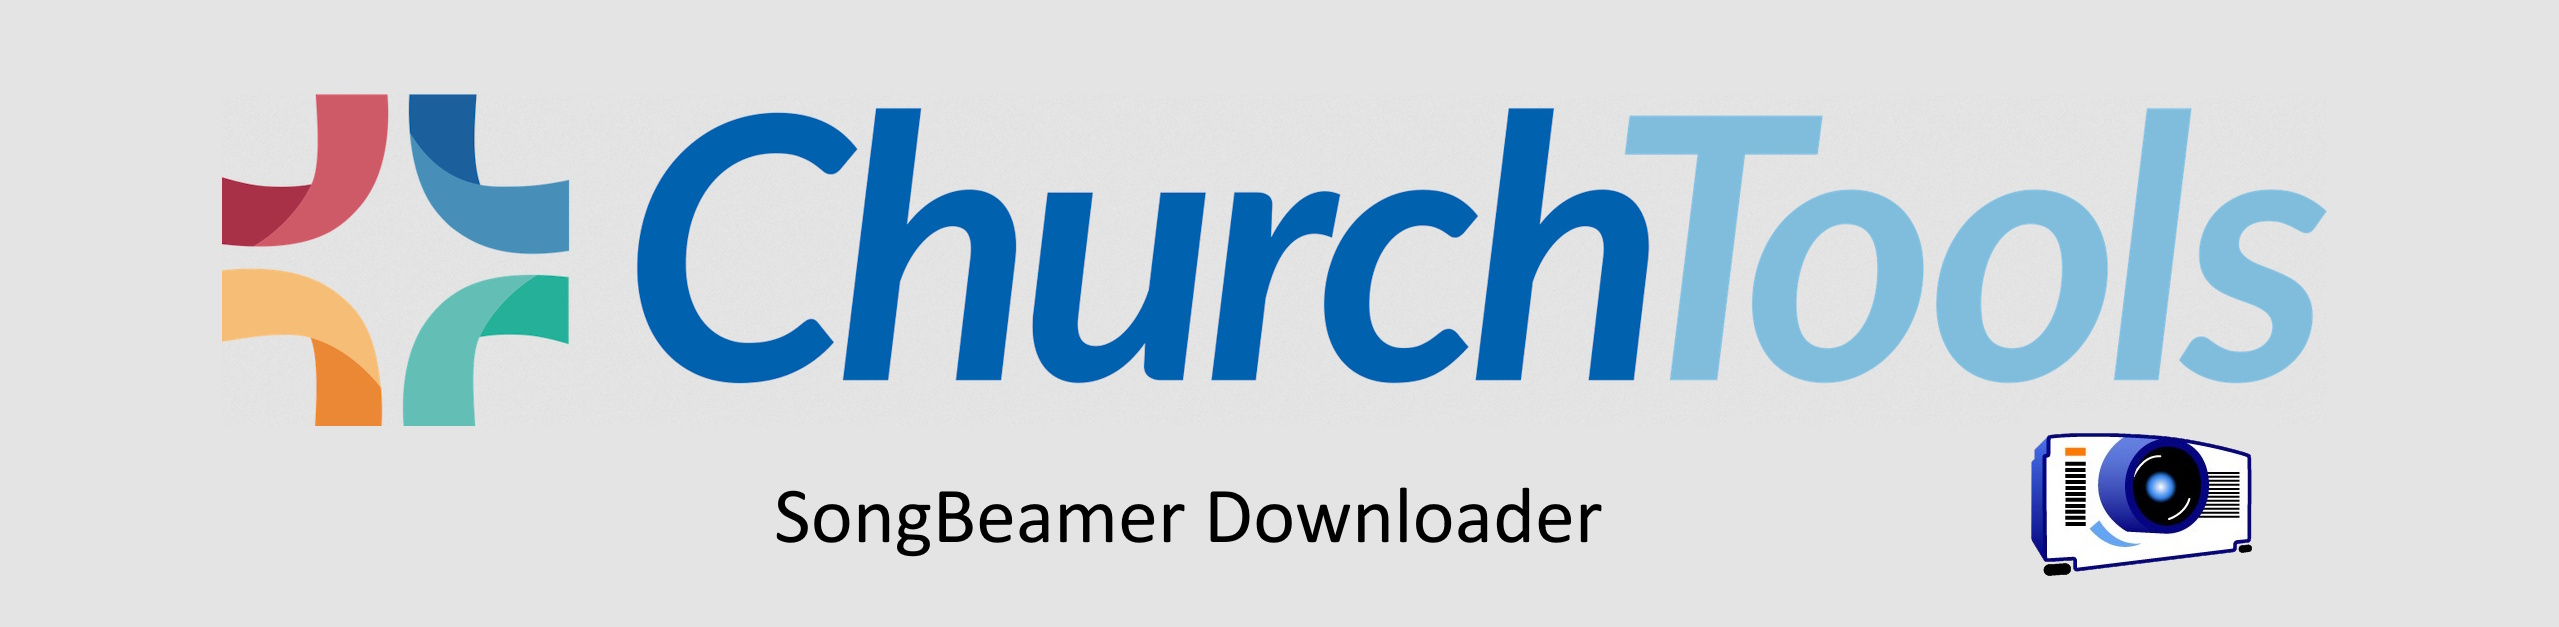
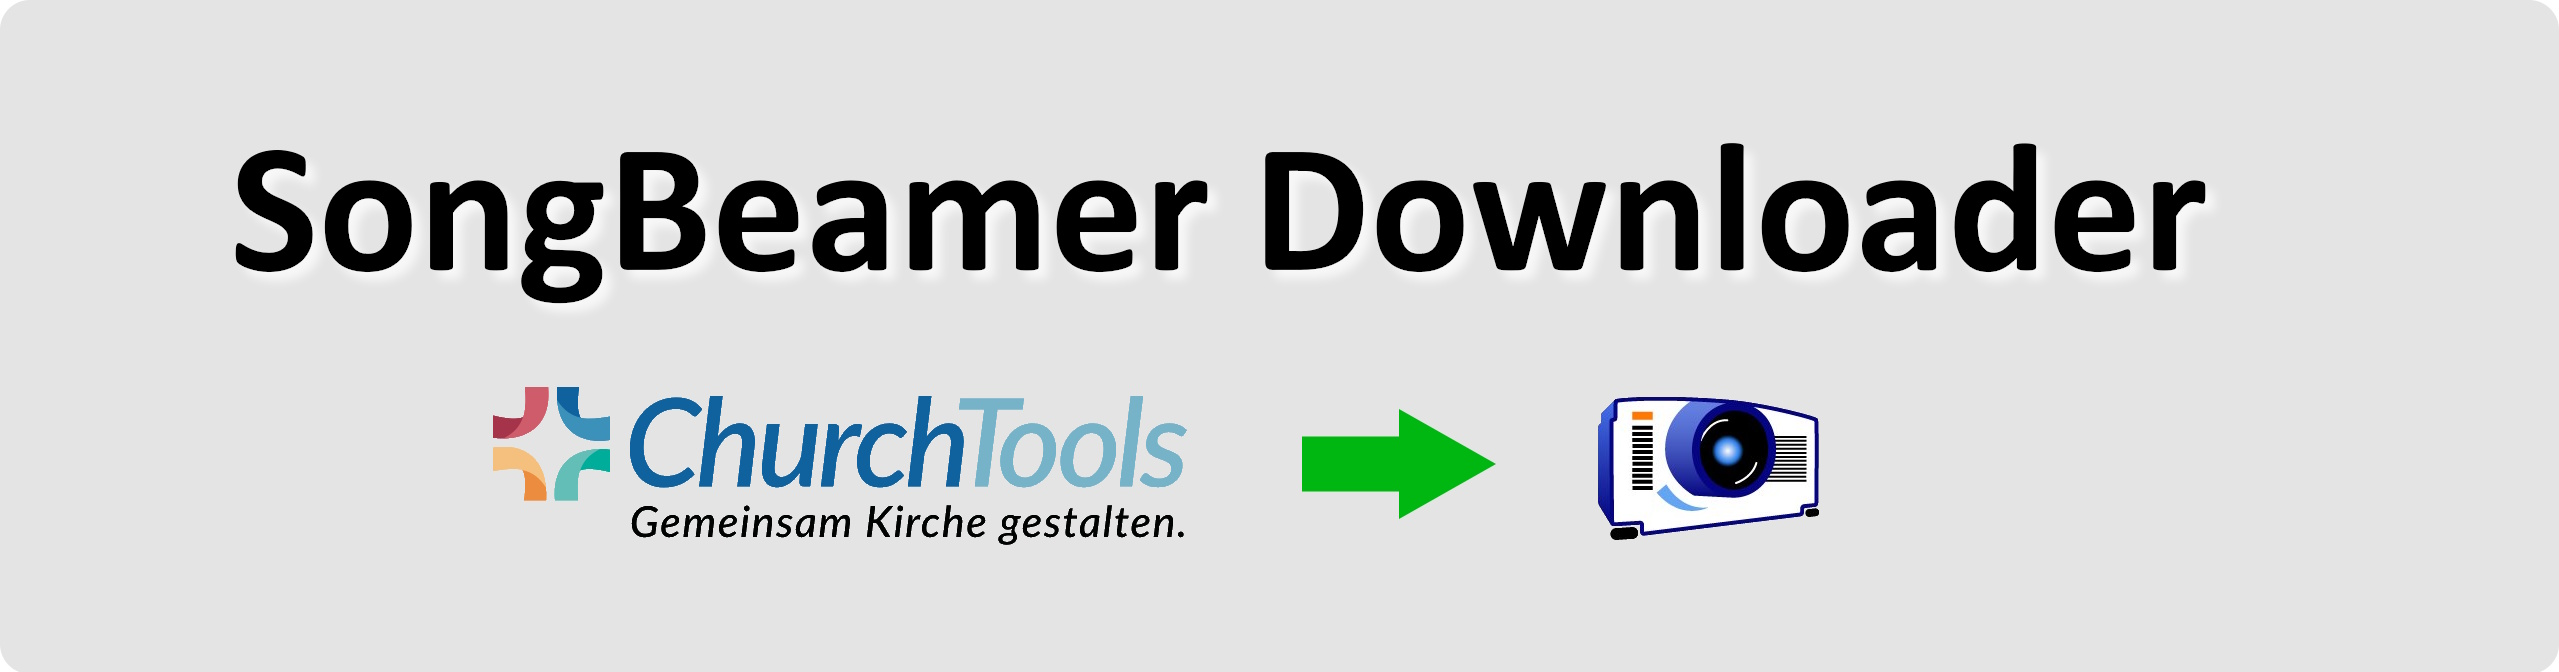
update to 1.1

diff --git a/source/templates/home.html b/source/templates/home.html
@@ -12,10 +12,8 @@
       <div class="row">
         <form action="/" method="post" id="main_form">
           <div>
-            <h3 class="text-center mt-2 mb-4">Instanz</h3>
-            <select class="form-select" aria-label="Instanz" name="instance">
-              <option selected>{{ env_data['instance'] if env_data is defined else "emk-rheinmain.church.tools" }}</option>
-            </select>
+            <h3 class="text-center mt-2 mb-4">URL Instanz</h3>
+            <input class="form-control" aria-label="Instanz" name="instance" value="{{ env_data['instance'] if env_data is defined }}">
           </div>
           <br>
           <div>
@@ -127,7 +125,7 @@
           <br>
           <div>
             <div class="text-secondary text-start position-relative"><strong>Manuell</strong>: ZIP Archiv bitte nach "c:\temp\sb" entpacken und den "Schedule.col" Ablauf in Songbeamer öffnen.</div>
-            <div class="text-secondary text-start position-relative"><strong>Automatisch</strong>: Das Batch Skript "local_commands.bat" ausführen.</div>
+            <div class="text-secondary text-start position-relative"><strong>Automatisch</strong>: Das Batch Skript "local_commands.bat" ausführen (im unten verlinkten GitHub Repository zu finden).</div>
           </div>
           {% endif %}
           {% endif %}

diff --git a/source/templates/style.html b/source/templates/style.html
@@ -1,7 +1,7 @@
 <style>
 .input-wrapper {position: relative;}
-  .icon {position: absolute; top: 50%; transform: translateY(-50%); right: -25px; cursor: pointer;}
-  .closed:before {content: "\F340"; font-family: "Bootstrap-icons"; font-style: normal; font-size: 1.2rem;}
-  .open:before {content: "\F341"; font-family: "Bootstrap-icons"; font-style: normal; font-size: 1.2rem;}
-  .bi-check-circle-fill {font-size: 6rem; color: #A9BB57;}
+.icon {position: absolute; top: 50%; transform: translateY(-50%); right: -25px; cursor: pointer;}
+.closed:before {content: "\F340"; font-family: "Bootstrap-icons"; font-style: normal; font-size: 1.2rem;}
+.open:before {content: "\F341"; font-family: "Bootstrap-icons"; font-style: normal; font-size: 1.2rem;}
+.bi-check-circle-fill {font-size: 6rem; color: #A9BB57;}
 </style>

diff --git a/source/templates/footer.html b/source/templates/footer.html
@@ -1,5 +1,7 @@
 <div class="container">
   <footer class="py-3 my-4">
-    <p class="text-center text-body-secondary">&copy; 2026 zetrick</p>
+    <hr>
+    <p class="text-center text-body-secondary">Dies ist ein Community Projekt und kein offizielles Tool von ChurchTools oder SongBeamer</p>
+    <p class="text-center text-body-secondary"><a class="text-body-secondary text-decoration-none" href="https://github.com/zetric/churchtools_sb_downloader"><i class="fa fa-brands fa-github"></i> Edit on GitHub</a></p>
   </footer>
 </div>

diff --git a/source/templates/bootstrap.html b/source/templates/bootstrap.html
@@ -8,3 +8,4 @@
 <!-- Tempus Dominus Styles -->
 <link rel="stylesheet" href="https://cdn.jsdelivr.net/npm/@eonasdan/tempus-dominus@6.9.4/dist/css/tempus-dominus.min.css" crossorigin="anonymous">
 <link rel="stylesheet" href="https://cdn.jsdelivr.net/npm/bootstrap-icons@1.11.1/font/bootstrap-icons.css">
+<link rel="stylesheet" href="https://cdnjs.cloudflare.com/ajax/libs/font-awesome/7.3.1/css/all.min.css">

diff --git a/source/app.py b/source/app.py
@@ -51,7 +51,7 @@ def main():
       # Get calendar names to use them later to query the events associated with the right calendar
       if (calendars_json := ct.ct_get_calendars())[1] == False:
         logger.error("Error during loading calendars: " + str(calendars_json[0]))
-        return render_template('home.html', error=f"Fehler beim Laden der Kalender: {calendars_json[0]}")
+        return render_template('home.html', env_data=env_data, error=f"Fehler beim Laden der Kalender: {calendars_json[0]}")
       
       for calendar in calendars_json[1]:
         calendar_names.append(calendar['name'])
@@ -78,7 +78,7 @@ def main():
         # Get events of selected calendar
         if (events := ct.ct_get_events(date_start=date_start, date_end=date_end))[1] == False:
           logger.error("Error during loading events: " + str(events[0]))
-          return render_template('home.html', error=f"Fehler beim Laden der Events: {events[0]}")
+          return render_template('home.html', env_data=env_data, error=f"Fehler beim Laden der Events: {events[0]}")
 
 
         for event in events[1]:
@@ -91,7 +91,7 @@ def main():
           # Get single event object
           if (event_selected_object := ct.ct_get_event(event_id=env_data['event_selected']))[1] == False:
             logger.error("Error during loading the event: " + str(event_selected_object[0]))
-            return render_template('home.html', error=f"Fehler beim Laden des Events: {event_selected_object[0]}")
+            return render_template('home.html', env_data=env_data, error=f"Fehler beim Laden des Events: {event_selected_object[0]}")
 
           event_selected = event_selected_object[1]
 
@@ -99,7 +99,7 @@ def main():
           logger.info(f"Querying agenda")
           if (agenda := ct.ct_get_agenda(event_id=env_data['event_selected']))[1] == False:
             logger.error("Error during loading the event: " + str(agenda[0]))
-            return render_template('home.html', error=f"Fehler beim Laden des Events: {agenda[0]}")
+            return render_template('home.html', env_data=env_data, error=f"Fehler beim Laden des Events: {agenda[0]}")
 
           if agenda != None:
 
@@ -154,7 +154,7 @@ def main():
                     
                     if (file_element := ct.ct_get_song_file_element(arrangement_id=item['song']['arrangementId']))[1] == False:
                       logger.error("Error during loading the file element: " + str(file_element[0]))
-                      return render_template('home.html', error=f"Fehler beim Laden des Dateielementes: {file_element[0]}")
+                      return render_template('home.html', env_data=env_data, error=f"Fehler beim Laden des Dateielementes: {file_element[0]}")
                     
                     fileUrl = file_element[1][0]['fileUrl']
                     ct.ct_download_file(fileName=file_element[1][0]['name'], fileUrl=fileUrl, target_path=TMP_FOLDER)
@@ -198,11 +198,11 @@ def main():
 
     else:
 
-      return render_template('home.html', error="Keine Instanz oder Token angegeben")
+      return render_template('home.html', env_data=env_data, error="Keine Instanz oder Token angegeben")
 
   else:
 
-    return render_template('home.html', error="Keine Instanz oder Token angegeben")
+    return render_template('home.html', env_data=env_data, error="Keine Instanz oder Token angegeben")
 
 
 if __name__ == "__main__":

diff --git a/CHANGELOG.md b/CHANGELOG.md
@@ -1,3 +1,8 @@
+# 1.1
+
+- Update banner
+- Change instance field to text only and keep data on reload when form is sent
+
 # 1.0
 
 Initial release
